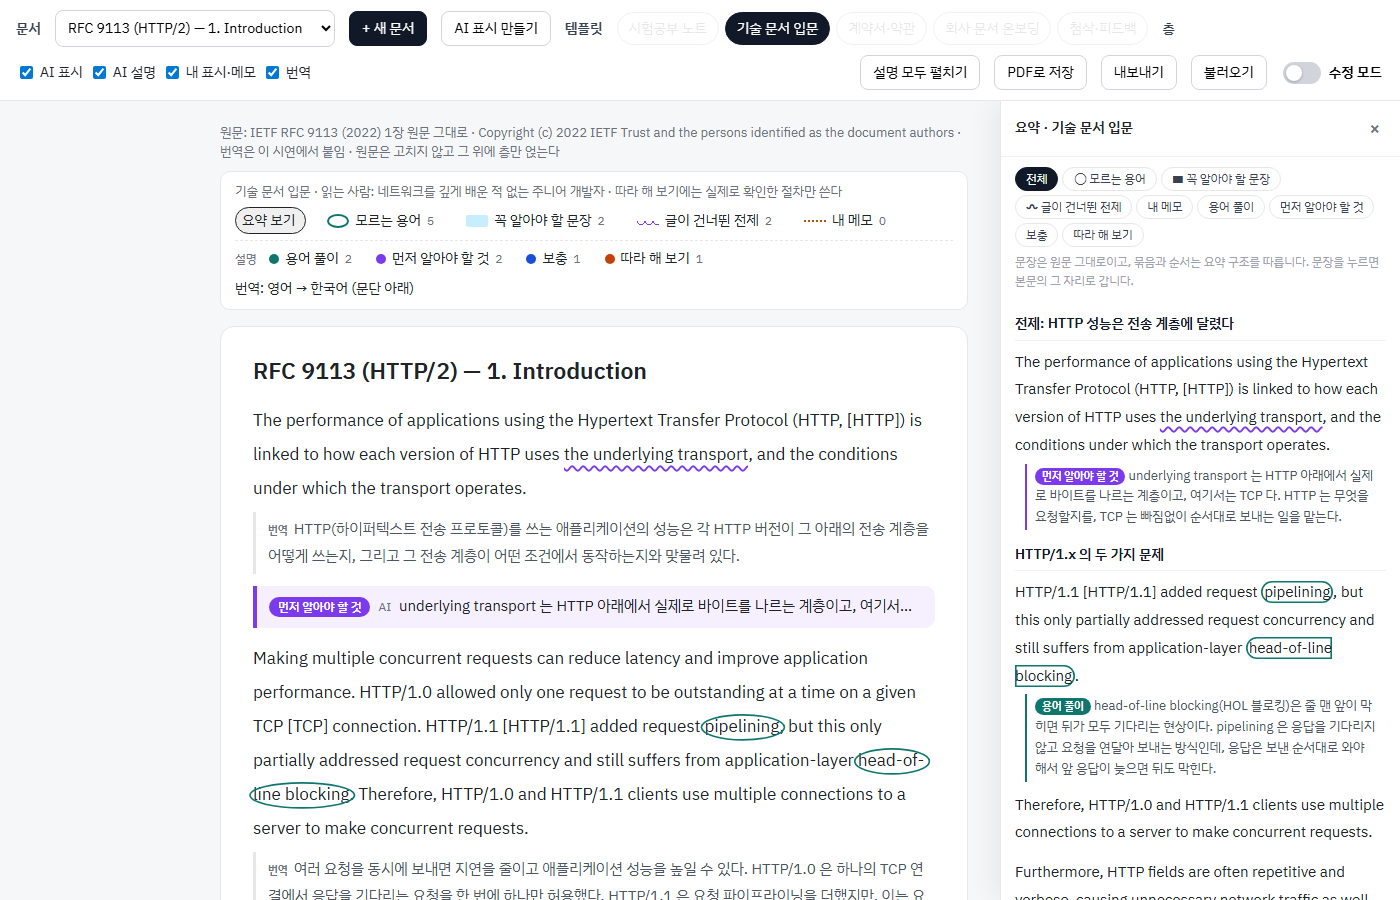
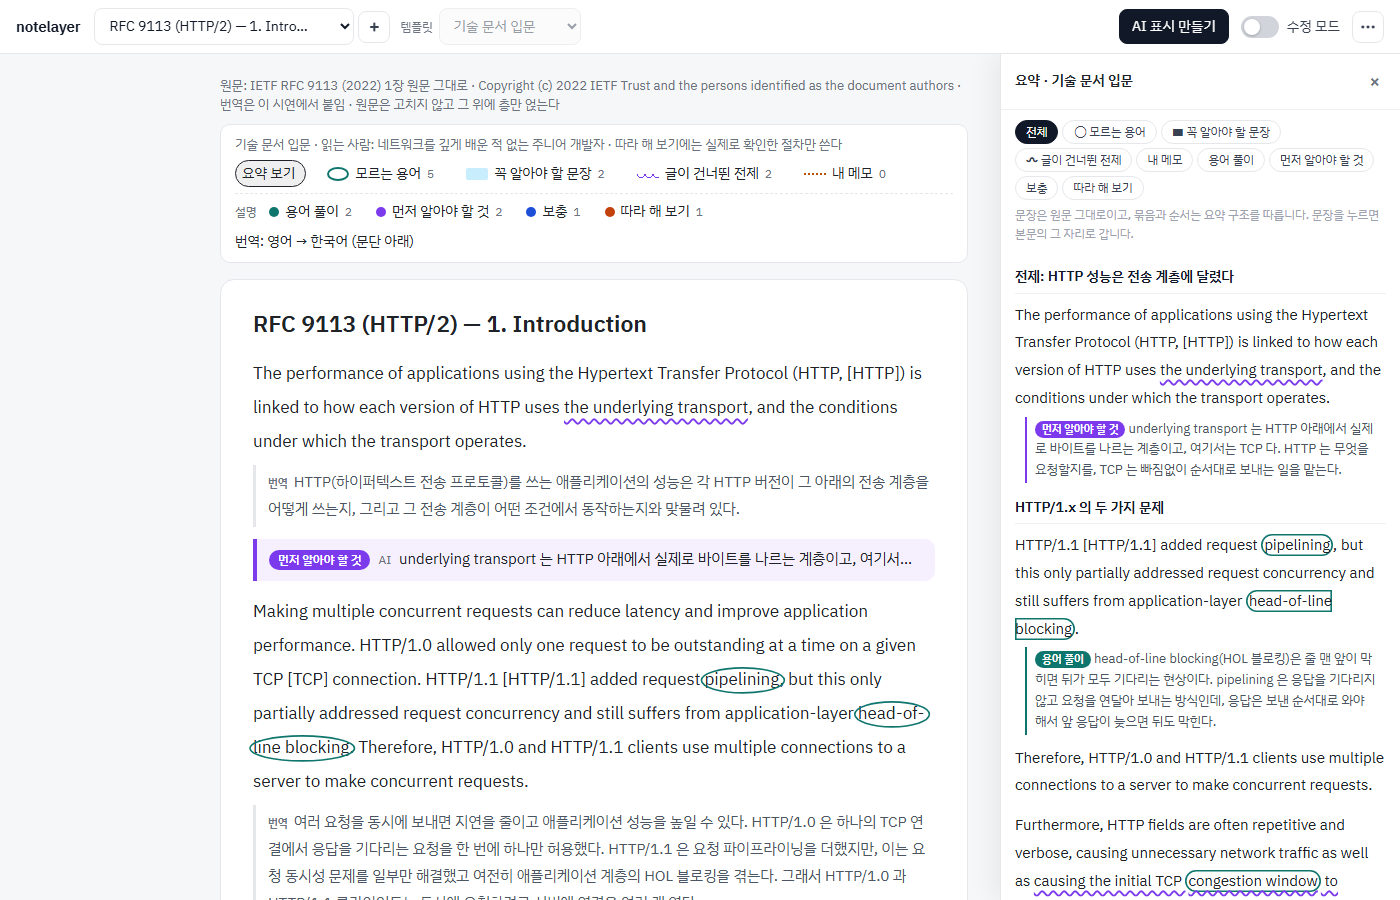
style: 위쪽 막대를 한 줄로 줄이고 나머지는 ⋯ 메뉴로 옮긴다
문서 고르기·새 문서·템플릿(고르기 칸)·AI 표시 만들기·수정 모드만 남기고, 층 보기·설명 펼치기·PDF·백업은 메뉴로. 지금 문서에 맞는 템플릿만 고르기 칸에 보인다. 좁은 화면에서는 메뉴를 막대 아래 화면 폭에 맞춰 띄운다.

Changed region(s): [[0.0, 0.0, 0.9829, 1.0], [0.1843, 0.4044, 0.6757, 1.0], [0.5221, 0.0, 0.6143, 0.0622]]

diff --git a/index.html b/index.html
@@ -11,26 +11,32 @@
 </head>
 <body data-template="exam">
 <div class="bar" id="bar">
-  <span class="title">문서</span>
-  <select id="docSelect" aria-label="문서 고르기"></select>
-  <button class="act primary" id="newDocBtn" title="글 붙여 넣기·파일·웹페이지로 새 문서 만들기">+ 새 문서</button>
-  <button class="act" id="aiBtn" title="쓰는 LLM 으로 지금 문서에 표시·설명 만들기">AI 표시 만들기</button>
-  <span class="title">템플릿</span>
-  <div class="group seg" id="templateButtons"></div>
-  <span class="title">층</span>
-  <div class="group">
-    <label><input type="checkbox" id="layerMarks" checked> AI 표시</label>
-    <label><input type="checkbox" id="layerBoxes" checked> AI 설명</label>
-    <label><input type="checkbox" id="layerMine" checked> 내 표시·메모</label>
-    <label id="trLabel"><input type="checkbox" id="layerTr" checked> 번역</label>
+  <span class="brand">notelayer</span>
+  <div class="pick">
+    <select id="docSelect" aria-label="문서"></select>
+    <button class="icon-btn" id="newDocBtn" title="새 문서 (글 붙여 넣기·파일·웹페이지)" aria-label="새 문서">+</button>
   </div>
+  <label class="pick tpl"><span class="pick-label">템플릿</span><select id="tplSelect" aria-label="템플릿"></select></label>
   <span class="spacer"></span>
-  <button class="act" id="expandAll">설명 모두 펼치기</button>
-  <button class="act" id="printBtn">PDF로 저장</button>
-  <button class="act" id="exportBtn" title="고친 내용을 파일로 백업">내보내기</button>
-  <button class="act" id="importBtn" title="백업 파일 불러오기">불러오기</button>
-  <input type="file" id="importFile" accept="application/json" hidden>
+  <button class="act primary" id="aiBtn" title="쓰는 LLM 으로 지금 문서에 표시·설명·요약 만들기">AI 표시 만들기</button>
   <button class="switch" id="editSwitch" role="switch" aria-checked="false"><span class="track"></span>수정 모드</button>
+  <div class="more">
+    <button class="icon-btn" id="moreBtn" aria-haspopup="menu" aria-expanded="false" aria-label="더 보기" title="보기·파일">⋯</button>
+    <div class="menu" id="moreMenu" role="menu" hidden>
+      <div class="menu-title">보기</div>
+      <label><input type="checkbox" id="layerMarks" checked> AI 표시</label>
+      <label><input type="checkbox" id="layerBoxes" checked> AI 설명</label>
+      <label><input type="checkbox" id="layerMine" checked> 내 표시·메모</label>
+      <label id="trLabel"><input type="checkbox" id="layerTr" checked> 번역</label>
+      <button class="menu-item" id="expandAll">설명 모두 펼치기</button>
+      <div class="menu-sep"></div>
+      <div class="menu-title">파일</div>
+      <button class="menu-item" id="printBtn">PDF로 저장</button>
+      <button class="menu-item" id="exportBtn" title="넣은 문서와 고친 내용을 파일로 백업">내보내기 (백업)</button>
+      <button class="menu-item" id="importBtn" title="백업 파일 불러오기">불러오기</button>
+      <input type="file" id="importFile" accept="application/json" hidden>
+    </div>
+  </div>
 </div>
 <div class="editbar" id="editbar">
   <span>수정 모드 — 표시를 누르면 종류를 바꾸거나 지울 수 있고, 글자를 끌어 고르면 새 표시나 메모를 달 수 있습니다. 설명 상자와 메모는 글을 누르면 치는 대로 바로 바뀌고, 꼬리표를 누르면 설명 종류를 바꿀 수 있습니다. 원문 글자는 바뀌지 않습니다.</span>

diff --git a/app.css b/app.css
@@ -235,3 +235,36 @@
 .side .sum-body[data-focus="circle"] .item-wrap:not(.dim) .k-circle,
 .side .sum-body[data-focus="highlight"] .item-wrap:not(.dim) .k-highlight,
 .side .sum-body[data-focus="wave"] .item-wrap:not(.dim) .k-wave { font-weight: 600; }
+
+/* ── 위쪽 막대: 한 줄, 자주 쓰는 것만 ── */
+.bar { flex-wrap: nowrap; gap: 10px; padding: 8px 16px; }
+.bar .brand { font: 700 15px var(--ui); letter-spacing: -.01em; color: #111827; margin-right: 4px; }
+.bar .pick { display: inline-flex; align-items: center; gap: 4px; min-width: 0; }
+.bar .pick select { border: 1px solid #e5e7eb; border-radius: 8px; padding: 6px 28px 6px 10px; background: #fff; font: 14px var(--ui); color: #111827;
+  max-width: 260px; text-overflow: ellipsis; cursor: pointer; }
+.bar .pick select:disabled { color: #6b7280; cursor: default; background: #f9fafb; }
+.bar .pick.tpl { gap: 6px; }
+.bar .pick-label { font-size: 12px; color: #6b7280; }
+.bar .icon-btn { width: 32px; height: 32px; border: 1px solid #e5e7eb; border-radius: 8px; background: #fff; cursor: pointer;
+  font: 600 18px/1 var(--ui); color: #374151; display: inline-grid; place-items: center; flex: none; }
+.bar .icon-btn:hover, .bar .pick select:hover { border-color: #d1d5db; background: #f9fafb; }
+.bar .act { white-space: nowrap; }
+.bar .switch { white-space: nowrap; font-weight: 500; color: #374151; }
+.more { position: relative; flex: none; }
+.menu { position: absolute; right: 0; top: calc(100% + 6px); z-index: 50; min-width: 210px; padding: 6px; background: #fff; border: 1px solid #e5e7eb;
+  border-radius: 12px; box-shadow: 0 12px 32px rgba(0,0,0,.14); font: 14px var(--ui); color: #1f2328; }
+.menu[hidden] { display: none; }
+.menu-title { padding: 6px 10px 2px; font-size: 12px; font-weight: 600; color: #9ca3af; }
+.menu label, .menu-item { display: flex; align-items: center; gap: 8px; width: 100%; padding: 7px 10px; border: 0; background: transparent;
+  border-radius: 8px; cursor: pointer; font: inherit; color: inherit; text-align: left; }
+.menu label:hover, .menu-item:hover { background: #f3f4f6; }
+.menu label.off { opacity: .4; cursor: not-allowed; }
+.menu-sep { height: 1px; background: #f0f0f0; margin: 6px 4px; }
+@media (max-width: 760px) {
+  .bar { flex-wrap: wrap; }
+  .bar .brand, .bar .pick-label { display: none; }
+  .bar .pick select { max-width: 46vw; }
+  /* 좁은 화면: 메뉴를 막대 바로 아래에 화면 폭에 맞춰 띄운다 */
+  .more { position: static; }
+  .menu { position: fixed; left: 16px; right: 16px; top: calc(var(--bar-h, 52px) + 4px); min-width: 0; }
+}

diff --git a/app.js b/app.js
@@ -222,11 +222,12 @@ function startNotelayer() {
     // 막대 상태
     $("docSelect").value = d.id;
     $("deleteDocBtn").hidden = !userDocIds.has(d.id);
-    document.querySelectorAll("#templateButtons button").forEach((b) => {
-      b.setAttribute("aria-pressed", String(b.dataset.id === ui.tpl));
-      b.disabled = !d.templates.includes(b.dataset.id);
-      b.title = b.disabled ? "이 예시 문서에는 맞지 않는 템플릿입니다" : "";
-    });
+    // 템플릿 고르기: 지금 문서에 맞는 템플릿만 보여 준다
+    const tplSel = $("tplSelect");
+    tplSel.replaceChildren(...d.templates.map((id) => { const o = el("option", null, TEMPLATES[id].name); o.value = id; return o; }));
+    tplSel.value = ui.tpl;
+    tplSel.disabled = d.templates.length < 2;
+    tplSel.title = tplSel.disabled ? "이 예시 문서에는 이 템플릿 하나만 맞습니다" : "";
     const hasTr = d.blocks.some((b) => b.tr);
     $("layerTr").disabled = !hasTr;
     $("trLabel").classList.toggle("off", !hasTr);
@@ -786,11 +787,15 @@ function startNotelayer() {
     if (!d.templates.includes(ui.tpl)) ui.tpl = d.templates[0];
     render();
   };
-  for (const [id, t] of Object.entries(TEMPLATES)) {
-    const b = el("button", null, t.name); b.dataset.id = id;
-    b.onclick = () => { ui.tpl = id; render(); };
-    $("templateButtons").append(b);
-  }
+  $("tplSelect").onchange = (e) => { ui.tpl = e.target.value; render(); };
+
+  // "⋯" 메뉴: 보기(층·펼치기)와 파일(PDF·백업). 층은 여러 개를 연달아 바꿀 수 있게 열어 두고, 파일 동작은 누르면 닫는다
+  const menu = $("moreMenu");
+  const setMenu = (open) => { menu.hidden = !open; $("moreBtn").setAttribute("aria-expanded", String(open)); };
+  $("moreBtn").onclick = (e) => { e.stopPropagation(); setMenu(menu.hidden); };
+  document.addEventListener("click", (e) => { if (!menu.hidden && !e.composedPath().includes(menu)) setMenu(false); });
+  document.addEventListener("keydown", (e) => { if (e.key === "Escape") setMenu(false); });
+  for (const id of ["printBtn", "exportBtn", "importBtn"]) $(id).addEventListener("click", () => setMenu(false));
   for (const [id, key] of [["layerMarks", "marks"], ["layerBoxes", "boxes"], ["layerMine", "mine"], ["layerTr", "tr"]]) {
     $(id).addEventListener("change", (e) => { ui.layers[key] = e.target.checked; render(); });
   }
